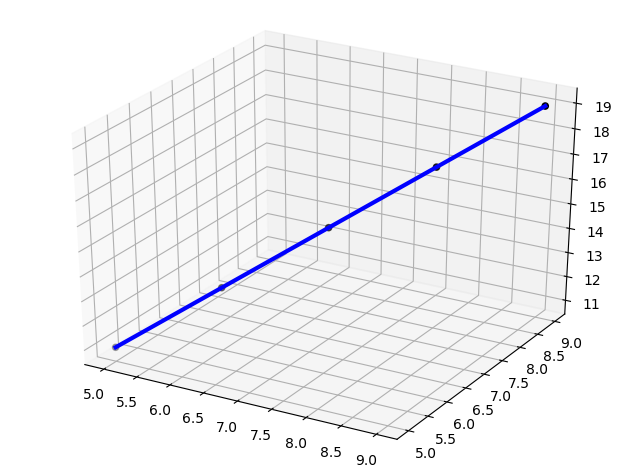
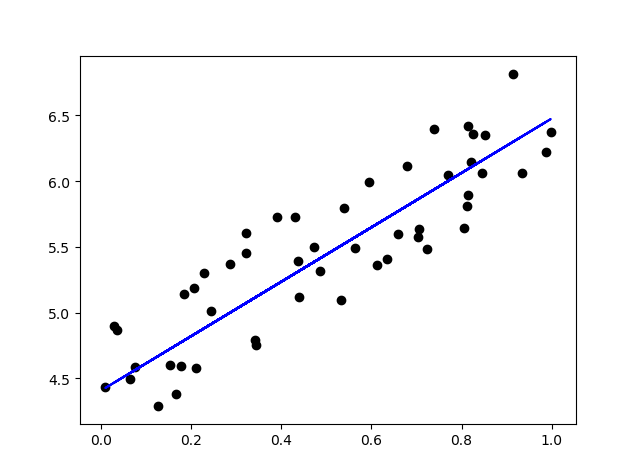
dl

diff --git a/线性模型/线性回归.md b/线性模型/线性回归.md
@@ -1,49 +1,38 @@
-#### 线性回归-普通最小二乘法
+#### 线性模型-普通最小二乘法线性回归
 
 + **code**
 
-```
-import matplotlib.pyplot as plt
+```python
 import numpy as np
-from sklearn import linear_model
+import matplotlib.pyplot as plt
 from sklearn.metrics import mean_squared_error
-from mpl_toolkits.mplot3d import Axes3D
+from sklearn import linear_model
 
-X = np.array([[0, 1, 2, 3, 4, 5, 6, 7, 8, 9],
-              [0, 1, 2, 3, 4, 5, 6, 7, 8, 9],
-              [1, 1, 1, 1, 1, 1, 1, 1, 1, 1]])
-X_train = X[:,0:5].T
-X_test = X[:,5:10].T
-y = np.array([1, 3, 5, 7, 9, 11, 13, 15, 17, 19])
-y_train = y[:-5]
-y_test = y[-5:]
+x = np.random.rand(100)
+x_train = x[0:50,np.newaxis]
+x_test = x[50:100,np.newaxis]
+y = 2 * x + 4 + np.random.rand(100)
+y_train = y[0:50]
+y_test = y[50:100]
 
 regr = linear_model.LinearRegression()
-regr.fit(X_train, y_train)
-y_pred = regr.predict(X_test)
-print('y=%.1f(x1)+%.1f(x2)+%.1f' % (regr.coef_[0], regr.coef_[1], regr.intercept_))
-print(y.shape, X.shape, regr.coef_.shape)
+regr.fit(x_train, y_train)
+y_pred = regr.predict(x_test)
+print('y=%.1f(x)+%.1f' % (regr.coef_[0], regr.intercept_))
+print(y_test.shape, x_test.shape, regr.coef_.shape)
 print("MSE= %.1f" % mean_squared_error(y_test, y_pred))
 
-# 画三维图
-fig = plt.figure()
-ax = Axes3D(fig)
-ax.scatter(X_test[:, 0], X_test[:, 1], y_test, color='black')
-ax.plot(X_test[:, 0], X_test[:, 1], y_pred, color='blue', linewidth=3)
+plt.scatter(x_test,y_test,c='black')
+plt.plot(x_test, y_pred, c='blue')
 plt.show()
-
-# 画二维图
-# plt.scatter(x, y,  color='black')#二维散点
-# plt.plot(x, y, color='blue', linewidth=3)
-# plt.show()
 ```
 
 + **output**
 
 ```
-y=1.0(x1)+1.0(x2)+1.0
-(10,) (10, 3) (3,)
-MSE= 0.0
+y=2.0(x)+4.5
+(50,) (50, 1) (1,)
+MSE= 0.1
 ```
 
 ![img](pic/1.png)

diff --git a/概率图模型/贝叶斯分类/朴素贝叶斯分类.md b/概率图模型/贝叶斯分类/朴素贝叶斯分类.md
@@ -1,0 +1,40 @@
+#### 高斯朴素贝叶斯分类
+
++ code
+
+```
+import numpy as np
+import matplotlib.pyplot as plt
+from sklearn.metrics import mean_squared_error
+from sklearn import naive_bayes
+
+X = np.random.rand(200, 2)
+X_train = X[0:100,:]
+X_test = X[100:200,:]
+y=np.empty(200)
+for i in range(200):
+    if X[i, 0] > 0.5 and X[i, 1] > 0.5:
+        y[i] = 0
+    elif X[i, 0] < 0.5 and X[i, 1] < 0.5:
+        y[i] = 0
+    else:
+        y[i] = 1    
+y_train = y[0:100]
+y_test = y[100:200]
+
+gnb = naive_bayes.GaussianNB()
+gnb.fit(X_train, y_train)
+y_pred = gnb.predict(X_test)
+print("MSE= %.1f" % mean_squared_error(y_test, y_pred))
+
+plt.scatter(X_test[:, 0], X_test[:, 1],c=y_test)
+plt.show()
+```
+
++ output
+
+```
+MSE= 0.5
+```
+
+![img](pic/1.png)
